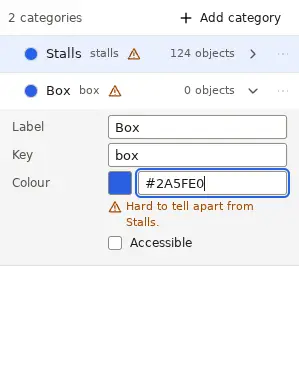
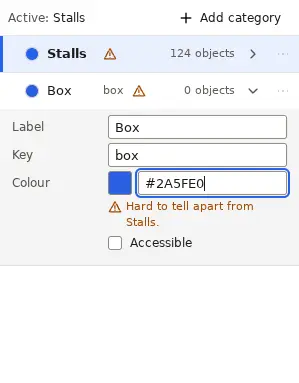
Designer: a copy never shares its original's automatic name; the active category's name keeps its room; the guide's pictures show the fixes

diff --git a/apps/console/src/designer/CategoriesPanel.tsx b/apps/console/src/designer/CategoriesPanel.tsx
@@ -181,28 +181,22 @@ export function CategoriesPanel(props: { editor: Editor }) {
                     style={{ background: cat.color }}
                   />
                   <span
-                    class="min-w-0 truncate text-base text-fg"
+                    class="min-w-12 truncate text-base text-fg"
                     classList={{ "font-semibold": cat.active }}
                   >
                     {cat.label}
                   </span>
-                  <Show
-                    when={cat.active}
-                    fallback={
-                      <span class="min-w-0 truncate font-mono text-xs text-faint">{cat.key}</span>
-                    }
-                  >
-                    <span class="shrink-0 rounded-sm bg-accent-fill px-1 text-2xs font-semibold text-on-accent">
-                      {msg("categories.activeBadge")}
-                    </span>
+                  <Show when={!cat.active}>
+                    <span class="min-w-0 truncate font-mono text-xs text-faint">{cat.key}</span>
                   </Show>
                   <Show when={cat.accessible}>
+                    {/* The wheelchair symbol, never a tick: a tick reads as
+                        "selected". Its words are the row's name and title. */}
                     <span
-                      class="flex shrink-0 items-center gap-0.5 text-xs text-muted"
-                      title={msg("categories.accessibleHint")}
+                      class="shrink-0 text-muted"
+                      title={`${msg("categories.accessible")}: ${msg("categories.accessibleHint")}`}
                     >
-                      <Icon name="accessible" class="size-3.5" />
-                      {msg("categories.accessibleShort")}
+                      <Icon name="accessible" class="size-4" />
                     </span>
                   </Show>
                   <Show when={cat.contrast?.weak === true || cat.similar.length > 0}>

diff --git a/apps/console/src/i18n/messages.ts b/apps/console/src/i18n/messages.ts
@@ -691,9 +691,7 @@ const ui = {
   "categories.objects": "{n} objects",
   "categories.active": "Active category",
   "categories.activeIs": "Active:",
-  "categories.activeBadge": "Active",
   "categories.activeHint": "New seats and the category brush take this category",
-  "categories.accessibleShort": "Accessible",
   "categories.makeActive": "Make active",
   "categories.moveUp": "Move up",
   "categories.moveDown": "Move down",

diff --git a/crates/cavea-edit/src/naming.rs b/crates/cavea-edit/src/naming.rs
@@ -4,6 +4,8 @@
 //! is the smallest that no object of the same kind's name uses. A node that
 //! has a name, or a label or text the layers panel shows, keeps it.
 
+use std::collections::BTreeSet;
+
 use cavea_compiler::document::{Node, ShapeKind};
 
 use crate::document::{Document, each_node};
@@ -55,6 +57,44 @@ pub(crate) fn fresh(doc: &Document, node: &Node) -> Option<String> {
     Some(format!("{word} {n}"))
 }
 
+/// Every name the nodes of `doc` have: what copies are named against.
+pub(crate) fn names(doc: &Document) -> BTreeSet<String> {
+    doc.ids()
+        .filter_map(|id| doc.node(id))
+        .filter_map(|n| each_node!(n, x => x.name.clone()))
+        .collect()
+}
+
+/// Names a pasted or duplicated `node` and its section's children: one
+/// whose name is an automatic one of its kind ("Row block 2") already in
+/// `taken` (the document's names, from [`names`], and earlier copies')
+/// gets the smallest free number, so a copy never shares its original's
+/// name. Any other name is a person's, and kept.
+pub(crate) fn rename_copy(node: &mut Node, taken: &mut BTreeSet<String>) {
+    if let Some(word) = word(node)
+        && let Some(name) = each_node!(&*node, n => n.name.clone())
+        && name
+            .strip_prefix(word)
+            .and_then(|r| r.strip_prefix(' '))
+            .is_some_and(|n| !n.is_empty() && n.bytes().all(|b| b.is_ascii_digit()))
+        && taken.contains(&name)
+    {
+        let fresh = (1u32..)
+            .map(|n| format!("{word} {n}"))
+            .find(|c| !taken.contains(c))
+            .unwrap_or(name);
+        each_node!(node, x => x.name = Some(fresh));
+    }
+    if let Some(name) = each_node!(&*node, n => n.name.clone()) {
+        taken.insert(name);
+    }
+    if let Node::Section(sec) = node {
+        for child in &mut sec.children {
+            rename_copy(child, taken);
+        }
+    }
+}
+
 /// A node's id; 0 (not yet given) counts as none.
 fn node_id(node: &Node) -> Option<u32> {
     Some(each_node!(node, n => n.id)).filter(|&id| id != 0)
@@ -90,5 +130,31 @@ mod tests {
             (b.id, b.name) = (0, None);
         }
         assert_eq!(fresh(&doc, &block).as_deref(), Some("Row block 4"));
+    }
+
+    #[test]
+    fn copies_get_their_own_automatic_names() {
+        let doc = Document::load(
+            serde_json::from_value(serde_json::json!({
+                "schema": 1, "name": "n", "nextOid": 100,
+                "nodes": [
+                    { "id": 1, "type": "rowBlock", "name": "Row block 1", "rows": [] },
+                    { "id": 2, "type": "rowBlock", "name": "Balcony", "rows": [] }
+                ]
+            }))
+            .expect("chart"),
+        )
+        .expect("load");
+        let copy = |id: u32| doc.node(id).cloned().expect("node");
+        let mut taken = names(&doc);
+        let (mut a, mut b, mut c) = (copy(1), copy(1), copy(2));
+        for n in [&mut a, &mut b, &mut c] {
+            rename_copy(n, &mut taken);
+        }
+        let name = |n: &Node| each_node!(n, x => x.name.clone());
+        // Two copies of "Row block 1": 2, then 3; a person's name is kept.
+        assert_eq!(name(&a).as_deref(), Some("Row block 2"));
+        assert_eq!(name(&b).as_deref(), Some("Row block 3"));
+        assert_eq!(name(&c).as_deref(), Some("Balcony"));
     }
 }

diff --git a/crates/cavea-edit/src/arrange.rs b/crates/cavea-edit/src/arrange.rs
@@ -197,10 +197,12 @@ pub(crate) fn array(
     }
     let base = view.doc.children(parent).len();
     let mut commands = Vec::new();
+    let mut names = crate::naming::names(view.doc);
     for i in 1..=copies {
         let k = f64::from(i);
         for tree in &trees {
             let mut node = tree.clone();
+            crate::naming::rename_copy(&mut node, &mut names);
             each_node!(&mut node, x => match step {
                 ArrayStep::Offset(d) => {
                     let v = view.index.to_parent(parent, d);

diff --git a/crates/cavea-edit/src/clipboard.rs b/crates/cavea-edit/src/clipboard.rs
@@ -186,8 +186,10 @@ pub(crate) fn paste(
             });
         }
     }
+    let mut names = crate::naming::names(view.doc);
     for (k, mut node) in clip.nodes.into_iter().enumerate() {
         strip(&mut node, &mut BTreeSet::new());
+        crate::naming::rename_copy(&mut node, &mut names);
         each_node!(&mut node, n => {
             let world = [n.origin[0] + d[0], n.origin[1] + d[1]];
             n.origin = place.invert(world);

diff --git a/docs/07-designer.md b/docs/07-designer.md
@@ -239,7 +239,7 @@ Common to all tools:
 
 ### 5.1 Selection and transform
 
-- **Names of new objects** (`naming.rs`). A row block, row, shape, icon or image drawn, or inserted by the form, is named in the same undo entry as a person would name it, by its kind and the smallest number no object's name already uses with that word ("Row block 3", "Rectangle 1"), like a new section's label (§5.5). Texts and sections are named by their own words. Nothing a person named is renamed; a pasted copy keeps its original's name. The status bar names the section a selection is in ("1 selected in Stalls"), so an object drawn while stepped into a section is seen to have gone there.
+- **Names of new objects** (`naming.rs`). A row block, row, shape, icon or image drawn, or inserted by the form, is named in the same undo entry as a person would name it, by its kind and the smallest number no object's name already uses with that word ("Row block 3", "Rectangle 1"), like a new section's label (§5.5). Texts and sections are named by their own words. Nothing a person named is renamed. A pasted or duplicated copy whose name is an automatic one already in use gets the next free number in the same entry ("Row block 2" copied is "Row block 3"); a person's name is copied as it is. The status bar names the section a selection is in ("1 selected in Stalls"), so an object drawn while stepped into a section is seen to have gone there.
 
 - Click selects the top-level node (block, table, shape). Double-click enters it: first to rows, then to seats (**seat-edit mode**). Escape steps back out.
 - Drag box selects what it fully contains; with Alt held, what it touches.
@@ -422,7 +422,7 @@ Measured on `stadium-100k` with all 180 blocks (100,000 seats) selected: the vie
 
 ## 7. Categories
 
-- The Categories panel lists categories with colour, label, key, an "accessible" marker and the number of objects using each. Clicking one makes it the active category, marked by a bar, a bold label and an **Active** badge, named at the top of the list ("Active: Stalls") and announced as the current one (`aria-current`); the accessible marker is a wheelchair symbol with the word **Accessible**, never a tick. Reorder by dragging its handle or with Alt+↑/↓ (the list's order is the compiled order).
+- The Categories panel lists categories with colour, label, key, an "accessible" marker and the number of objects using each. Clicking one makes it the active category, marked by a bar, a tint and a bold label, named at the top of the list ("Active: Stalls") and announced as the current one (`aria-current`); the accessible marker is a wheelchair symbol, titled and announced as **Accessible**, never a tick (the word beside it left the active category's name no room in the column's default width). Reorder by dragging its handle or with Alt+↑/↓ (the list's order is the compiled order).
 - Add, rename, recolour, merge, delete (deleting requires reassigning its objects).
 - The colour picker shows a contrast warning when two categories are hard to tell apart or when a colour is weak against the canvas background.
 

diff --git a/apps/docs/content/designer/categories.md b/apps/docs/content/designer/categories.md
@@ -14,7 +14,7 @@ A new chart has one category, **Standard**. Open the **Categories** tab in the p
 4. Choose **Add category** for each other level. Give each a **Label**, a **Key** and a **Colour** (type a colour such as `#B45309`, or choose one).
 5. Tick **Accessible** on a category of wheelchair or accessible spaces. The buyer's map marks those seats, and buyers who need them can find them.
 
-The list shows how many seats each category has ("110 objects"), and the word **Accessible**, with a wheelchair symbol, beside an accessible one. The menu at the end of each row (the three dots) has **Move up** and **Move down**, which set the order of the map's key, **Merge into…** and **Delete…**. Deleting a category that seats still use asks which category they move to.
+The list shows how many seats each category has ("110 objects"), and a wheelchair symbol beside an accessible one (hover over it to read **Accessible**). The menu at the end of each row (the three dots) has **Move up** and **Move down**, which set the order of the map's key, **Merge into…** and **Delete…**. Deleting a category that seats still use asks which category they move to.
 
 ## Colours
 
@@ -34,7 +34,7 @@ A block's seats take the block's category. With the block selected, choose it in
 To put single seats in another category, paint them:
 
 1. Step into the block's seats: double-click the block, then double-click the row, so that the inspector says **Seats** ([Change single rows and seats](seats.md#change-single-rows-and-seats)). The brush paints what a click would select, so without this it paints whole blocks.
-2. In **Categories**, click the name of the category to paint with. Its row is marked **Active**, and the top of the list says "Active:" and its name: it is the category the brush paints and new blocks start with.
+2. In **Categories**, click the name of the category to paint with. Its row is marked with a bar and its name in bold, and the top of the list says "Active:" and its name: it is the category the brush paints and new blocks start with.
 3. Choose **Category brush** in the tools (`C`).
 4. Click seats, or drag across them. Each click is one step you can undo.
 5. Choose **Select** (`V`) when you have finished.

diff --git a/docs/TODO.md b/docs/TODO.md
@@ -316,9 +316,8 @@ Do not start a milestone until the previous one's exit criteria are met.
 
 ### Found while fixing the designer guide's findings, not fixed
 
-- [ ] **DSN-061** A pasted or duplicated object keeps its original's name, so two objects can both be "Row block 1"; name copies as new objects are named (07 §5.1)
-- [ ] **DSN-062** The publish dialog lists the server's findings (a refused publish) in the compiler's words, with internal ids; give them the validation panel's sentences (07 §10, §11)
-- [ ] **DSN-063** Charts saved before new objects were named keep "Row block 123" (kind and id) for unnamed objects in the layers panel and the findings; offer to name them, or name them by kind and number on display
+- [ ] **DSN-061** The publish dialog lists the server's findings (a refused publish) in the compiler's words, with internal ids; give them the validation panel's sentences (07 §10, §11)
+- [ ] **DSN-062** Charts saved before new objects were named keep "Row block 123" (kind and id) for unnamed objects in the layers panel and the findings; offer to name them, or name them by kind and number on display
 
 ---
 
